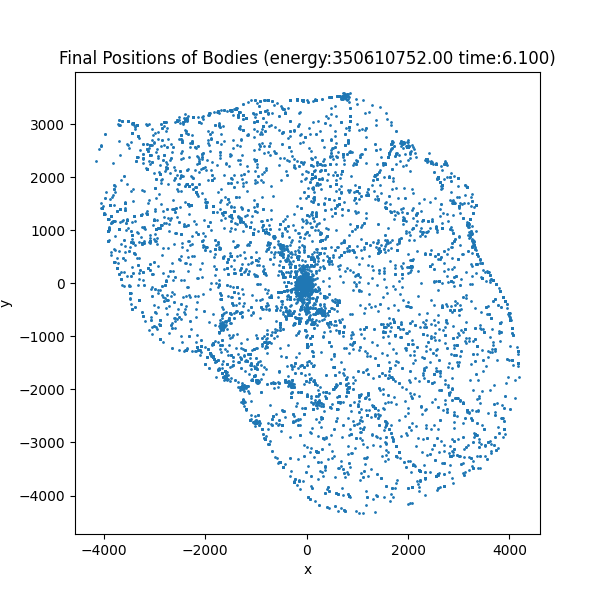
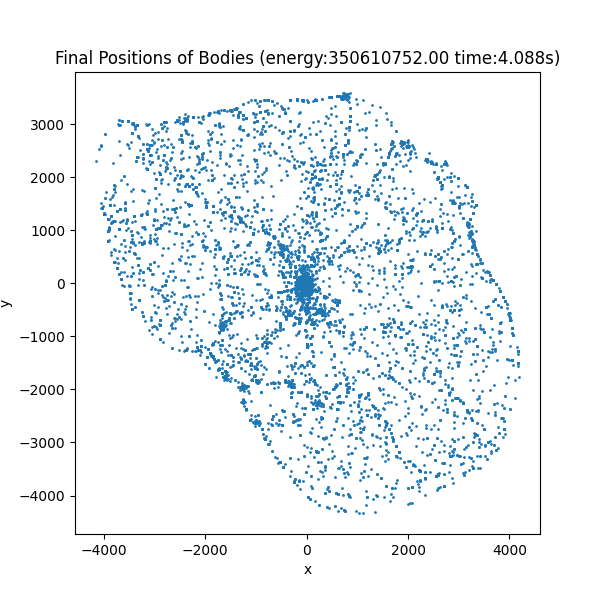
working on distributed version

Changed region(s): [[0.09, 0.06, 0.93, 0.12]]

diff --git a/nbody_distributed.py b/nbody_distributed.py
@@ -1,6 +1,5 @@
 import time
 import jax
-import jax.numpy as jnp
 from jax import random, block_until_ready
 from jax.experimental import multihost_utils
 from jax.sharding import Mesh, PartitionSpec
@@ -13,9 +12,14 @@ import matplotlib.pyplot as plt
 # NOTE: this needs to be called BEFORE anything else.
 jax.distributed.initialize()
 
-if jax.process_index() == 0:
+# We assume that N is evenly divisible by the number of processes.
+proc = jax.process_index()
+num_procs = jax.process_count()
+print(f"Process {proc} out of {num_procs}")
+
+if proc == 0:
     print(f"Global devices: {jax.devices()}")
-print(f"[{jax.process_index()}]: Local devices: {jax.local_devices()}")
+print(f"[{proc}]: Local devices: {jax.local_devices()}")
 
 # -------------------------------
 # Simulation Parameters (constants)
@@ -36,11 +40,6 @@ plot_name = "naive_distributed_plot.png"
 # -------------------------------
 # Sharding the Initial State
 # -------------------------------
-# We assume that N is evenly divisible by the number of processes.
-proc = jax.process_index()
-num_procs = jax.process_count()
-print(f"Process {proc} out of {num_procs}")
-
 local_N = N // num_procs
 start = proc * local_N
 end = start + local_N
@@ -59,6 +58,7 @@ local_mass = mass[start:end]
 global_mesh = Mesh(jax.devices(), ('devices',))
 
 # Define partition specs to shard the "bodies" (first) axis.
+# These specs are used for constructing the global arrays.
 pos_pspec = PartitionSpec('devices', None)   # for pos of shape (N, dim)
 vel_pspec = PartitionSpec('devices', None)     # for vel of shape (N, dim)
 mass_pspec = PartitionSpec('devices')          # for mass of shape (N,)
@@ -98,19 +98,21 @@ print("Computing total energy...")
 energy = total_energy(final_pos, final_vel, final_mass, G, softening)
 print("Final total energy:", energy)
 
-# Only process 0 gathers the global final positions to host-local memory.
-if jax.process_index() == 0:
+# Only process 0 gathers the full global final positions to host-local memory.
+if proc == 0:
     print("Gathering final positions to process 0...")
-    final_pos_local = multihost_utils.global_array_to_host_local_array(final_pos, global_mesh, pos_pspec)
-    final_pos_local = jax.device_get(final_pos_local)
-    print(f"Final positions shape: {final_pos_local.shape}")
+    # Use a new partition spec that indicates no sharding along any axis.
+    host_local_pos_pspec = PartitionSpec(None, None)
+    final_pos_full = multihost_utils.global_array_to_host_local_array(final_pos, global_mesh, host_local_pos_pspec)
+    final_pos_full = jax.device_get(final_pos_full)
+    print(f"Final positions shape: {final_pos_full.shape}")
 
     print(f"Saving plot to {plot_name}...")
     plt.figure(figsize=(6, 6))
-    plt.scatter(final_pos_local[:, 0], final_pos_local[:, 1], s=1)
+    plt.scatter(final_pos_full[:, 0], final_pos_full[:, 1], s=1)
     plt.xlabel("x")
     plt.ylabel("y")
-    plt.title(f"Final Positions (energy: {energy:.2f}, time: {runtime:.3f}s, nbProcess:{num_procs})")
+    plt.title(f"Final Positions (energy:{energy:.2f} time:{runtime:.3f}s nbProcess:{num_procs})")
     plt.savefig(output_folder / plot_name)
     plt.close()
     print("Plot saved.")

diff --git a/nbody.py b/nbody.py
@@ -167,7 +167,7 @@ plt.figure(figsize=(6, 6))
 plt.scatter(final_pos_np[:, 0], final_pos_np[:, 1], s=1)
 plt.xlabel("x")
 plt.ylabel("y")
-plt.title(f"Final Positions of Bodies (energy:{energy:.2f} time:{runtime:.3f})")
+plt.title(f"Final Positions of Bodies (energy:{energy:.2f} time:{runtime:.3f}s)")
 plt.savefig(output_folder / plot_name)
 plt.close()
 print("Plot saved.")
